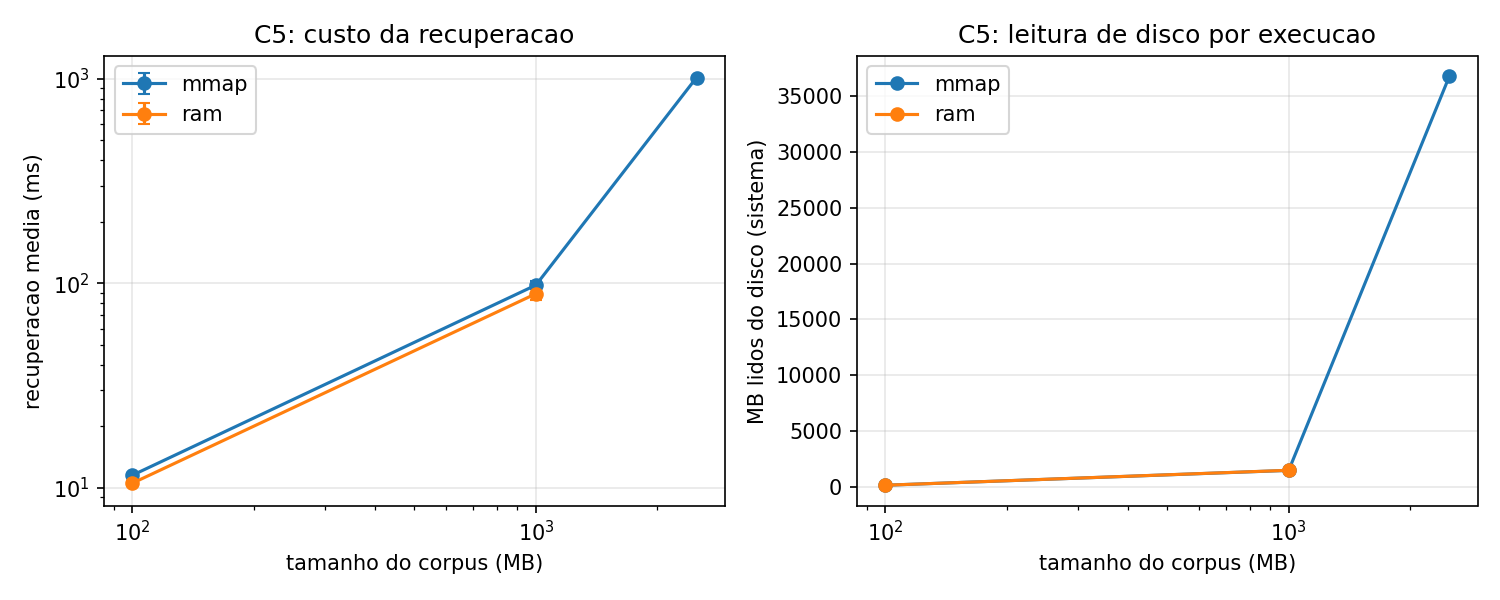
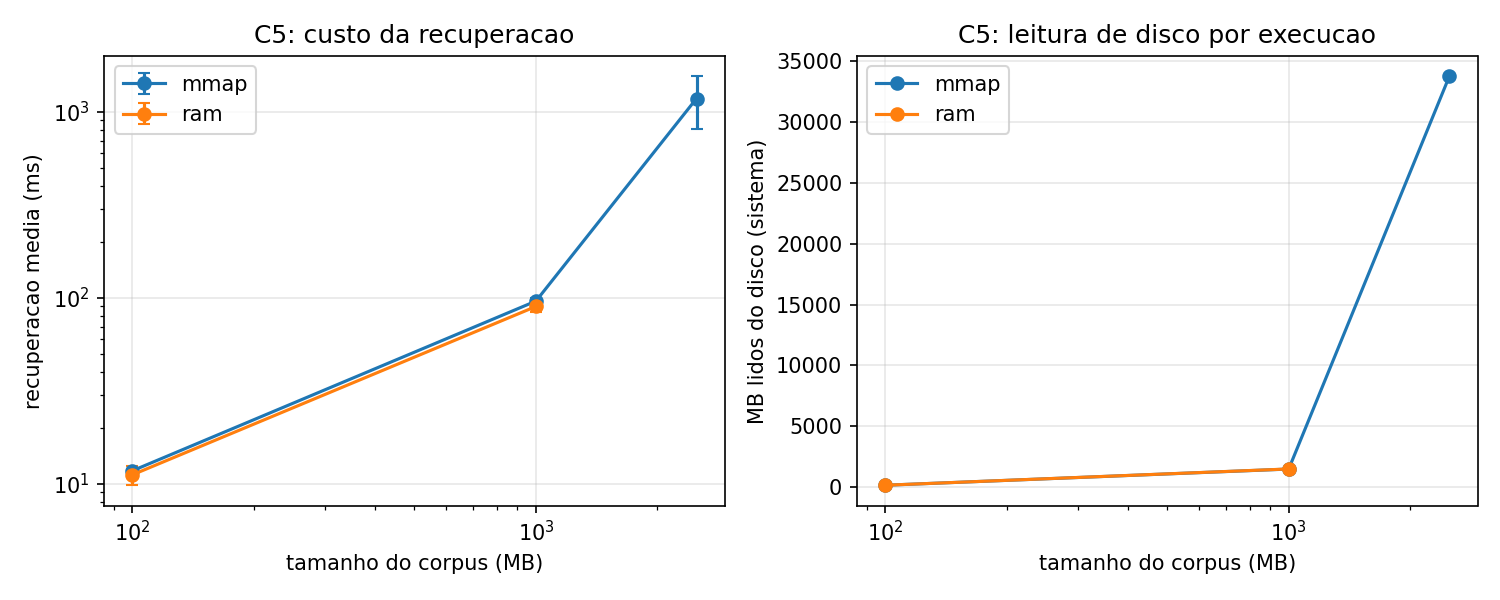
Mostrando os results

diff --git a/src/demo_race.py b/src/demo_race.py
@@ -1,0 +1,193 @@
+"""Parte D - demonstracao controlada de condicao de corrida e correcao.
+
+Tres experimentos, cada um em tres modos (3 repeticoes):
+  A) estrutura do cache (contadores e OrderedDict): sem lock x com mutex
+  B) computacao duplicada ("cache stampede"): sem lock x mutex x single-flight
+  C) log concorrente: sem lock x com lock (linhas corrompidas)
+
+Uso (a partir da raiz do repositorio):
+  python src/demo_race.py --reps 3 --out results/raw/d_race.csv
+"""
+import argparse, csv, json, os, sys, tempfile, threading, time
+from collections import Counter
+
+sys.path.insert(0, os.path.dirname(os.path.abspath(__file__)))
+from cache import SharedCache
+from logger import EventLog
+
+
+class SingleFlight:
+    """Evita que dois consumidores calculem a mesma consulta ao mesmo tempo.
+    O lock protege so o mapa de consultas em andamento, nunca o calculo."""
+    def __init__(self):
+        self._lock = threading.Lock()
+        self._inflight = {}                      # chave -> Event
+
+    def begin(self, key):
+        with self._lock:
+            ev = self._inflight.get(key)
+            if ev is None:
+                self._inflight[key] = threading.Event()
+                return True, None                # esta thread calcula
+            return False, ev                     # outra thread ja esta calculando
+
+    def end(self, key):
+        with self._lock:
+            ev = self._inflight.pop(key)
+        ev.set()
+
+
+def run_threads(n, target):
+    ts = [threading.Thread(target=target, args=(i,), name=f"w{i}") for i in range(n)]
+    t0 = time.perf_counter()
+    for t in ts: t.start()
+    for t in ts: t.join()
+    return time.perf_counter() - t0
+
+
+def exp_a(mode, nthreads, nops, keys, cap):
+    """Contadores e estrutura: esperado hits+misses == nthreads*nops."""
+    cache = SharedCache(capacity=cap, policy="lru", locked=(mode == "mutex"))
+    errors = Counter()
+
+    def worker(i):
+        for j in range(nops):
+            k = (i * 7 + j * 13) % keys
+            try:
+                if cache.get(k) is None:
+                    cache.put(k, k, 0.001)
+            except Exception as e:               # KeyError etc. por estrutura corrompida
+                errors[type(e).__name__] += 1
+
+    wall = run_threads(nthreads, worker)
+    gets = nthreads * nops - sum(errors.values())
+    st = cache.stats()
+    return {"wall_s": round(wall, 4), "esperado": gets, "observado": st["hits"] + st["misses"],
+            "atualizacoes_perdidas": gets - (st["hits"] + st["misses"]),
+            "tam_final": st["size"], "capacidade": cap,
+            "acima_capacidade": max(0, st["size"] - cap),
+            "excecoes": sum(errors.values()), "tipos_excecao": json.dumps(dict(errors))}
+
+
+def exp_a2(mode, nthreads, nops):
+    """Atualizacao perdida: contador compartilhado com ler -> (troca de thread) -> gravar."""
+    cache = SharedCache(capacity=1, locked=(mode == "mutex"))
+    lock = threading.Lock() if mode == "mutex" else None
+
+    def worker(i):
+        for _ in range(nops):
+            if lock: lock.acquire()
+            tmp = cache.hits            # le
+            time.sleep(0)               # cede a CPU (ponto de troca de contexto)
+            cache.hits = tmp + 1        # grava valor possivelmente velho
+            if lock: lock.release()
+
+    wall = run_threads(nthreads, worker)
+    esperado = nthreads * nops
+    return {"wall_s": round(wall, 4), "esperado": esperado, "observado": cache.hits,
+            "atualizacoes_perdidas": esperado - cache.hits}
+
+
+def exp_b(mode, nthreads, uniq, calc_s):
+    """Todas as threads pedem as mesmas 'uniq' consultas; minimo de calculos = uniq."""
+    cache = SharedCache(capacity=uniq * 2, policy="lru", locked=(mode != "unsafe"))
+    sf = SingleFlight()
+    computed = Counter()
+    clock = threading.Lock()
+
+    def compute(k):
+        time.sleep(calc_s)                       # custo da recuperacao/geracao
+        with clock:
+            computed[k] += 1
+        return k
+
+    def worker(i):
+        for k in range(uniq):
+            if cache.get(k) is not None:
+                continue
+            if mode == "singleflight":
+                lead, ev = sf.begin(k)
+                if not lead:
+                    ev.wait()
+                    continue
+                try:
+                    if cache.get(k) is None:
+                        cache.put(k, compute(k), calc_s)
+                finally:
+                    sf.end(k)
+            else:
+                cache.put(k, compute(k), calc_s)
+
+    wall = run_threads(nthreads, worker)
+    total = sum(computed.values())
+    return {"wall_s": round(wall, 4), "calculos": total, "minimo": uniq,
+            "calculos_duplicados": total - uniq}
+
+
+def exp_c(mode, nthreads, nlines):
+    path = os.path.join(tempfile.gettempdir(), f"demo_log_{mode}.log")
+    log = EventLog(path, locked=(mode == "lock"))
+    payload = "x" * 6000                         # linha grande: escrita passa do buffer
+
+    def emit(i, j):
+        # como muitos loggers: cabecalho e corpo em duas escritas separadas
+        head = f"{time.time():.6f}\t{threading.current_thread().name}\tevento\t"
+        body = json.dumps({"thread": i, "seq": j, "dados": payload}) + "\n"
+        with log._lock:
+            log.f.write(head)
+            time.sleep(0)
+            log.f.write(body)
+
+    def worker(i):
+        for j in range(nlines):
+            emit(i, j)
+
+    wall = run_threads(nthreads, worker)
+    log.close()
+    ok = bad = 0
+    with open(path, encoding="utf-8") as f:
+        for line in f:
+            p = line.rstrip("\n").split("\t", 3)
+            try:
+                assert len(p) == 4
+                json.loads(p[3]); ok += 1
+            except Exception:
+                bad += 1
+    return {"wall_s": round(wall, 4), "linhas_esperadas": nthreads * nlines,
+            "linhas_validas": ok, "linhas_corrompidas": bad}
+
+
+def main():
+    ap = argparse.ArgumentParser()
+    ap.add_argument("--reps", type=int, default=3)
+    ap.add_argument("--threads", type=int, default=4)
+    ap.add_argument("--out", default="results/raw/d_race.csv")
+    ap.add_argument("--switch", type=float, default=1e-6,
+                    help="sys.setswitchinterval: forca trocas de thread frequentes")
+    a = ap.parse_args()
+    sys.setswitchinterval(a.switch)
+    os.makedirs(os.path.dirname(a.out) or ".", exist_ok=True)
+    rows = []
+    for rep in range(1, a.reps + 1):
+        for mode in ("unsafe", "mutex"):
+            rows.append({"exp": "A_estrutura", "modo": mode, "rep": rep,
+                         **exp_a(mode, a.threads, 20000, keys=30, cap=10)})
+        for mode in ("unsafe", "mutex"):
+            rows.append({"exp": "A2_atualizacao_perdida", "modo": mode, "rep": rep,
+                         **exp_a2(mode, a.threads, 20000)})
+        for mode in ("unsafe", "mutex", "singleflight"):
+            rows.append({"exp": "B_duplicacao", "modo": mode, "rep": rep,
+                         **exp_b(mode, a.threads, uniq=20, calc_s=0.005)})
+        for mode in ("unsafe", "lock"):
+            rows.append({"exp": "C_log", "modo": mode, "rep": rep,
+                         **exp_c(mode, a.threads, 300)})
+    cols = sorted({k for r in rows for k in r}, key=lambda k: (k not in ("exp", "modo", "rep"), k))
+    with open(a.out, "w", newline="", encoding="utf-8") as f:
+        w = csv.DictWriter(f, fieldnames=cols); w.writeheader(); w.writerows(rows)
+    for r in rows:
+        print({k: v for k, v in r.items() if v != ""})
+    print("gravado em", a.out)
+
+
+if __name__ == "__main__":
+    main()
